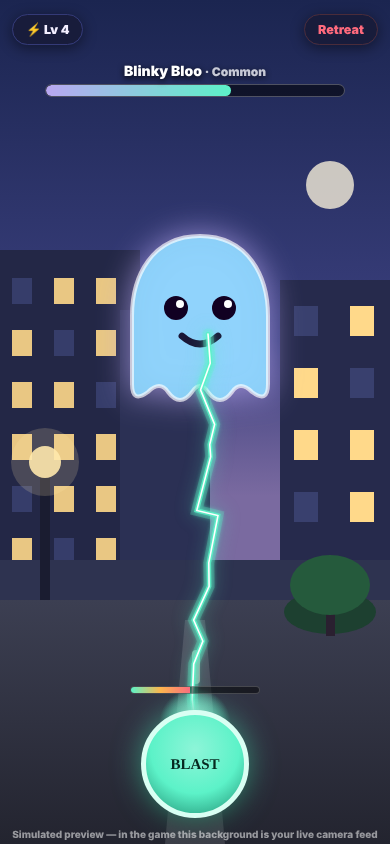
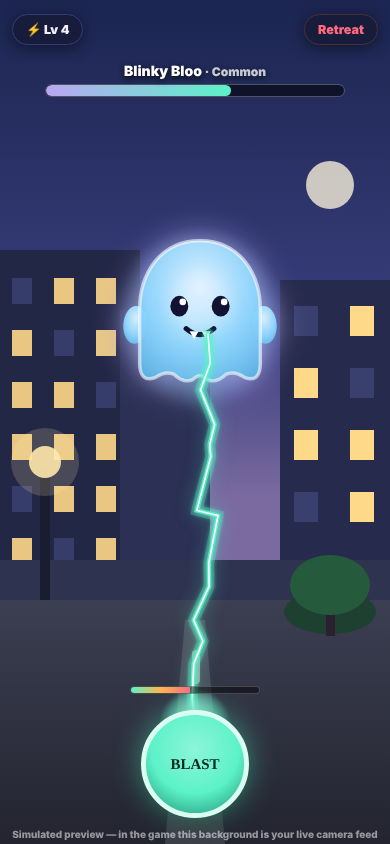
Redesign ghost cast: animated gradient art with floating arms, waving tails, blinking, brows, fangs, drips; refresh AR previews
Claude-Session: https://claude.ai/code/session_01BDYorCFhA6JyGBvLvMTcXZ

Changed region(s): [[0.3077, 0.2773, 0.7077, 0.4929]]

diff --git a/play/index.html b/play/index.html
@@ -266,39 +266,90 @@ const SPECIES = [
 const RAR_LABEL = {c:"Common",u:"Uncommon",r:"Rare",s:"Special",b:"Boss"};
 
 /* ---------- ghost art: original SVG blobs ---------- */
+let GUID=0;
 function ghostSVG(sp, px){
-  const s = px || sp.size;
-  const boss = sp.rar==="b", myr = sp.id==="myrtle";
-  const eyes = sp.id==="blinky"
-    ? `<circle cx="38" cy="44" r="6" fill="#102"/><circle cx="62" cy="44" r="6" fill="#102"/>
-       <rect x="30" y="36" width="16" height="4" rx="2" fill="${sp.body}"><animate attributeName="height" values="0;0;14;0;0" keyTimes="0;.42;.5;.58;1" dur="3s" repeatCount="indefinite"/></rect>`
-    : boss
-    ? `<circle cx="36" cy="42" r="8" fill="#0a2a20"/><circle cx="64" cy="42" r="8" fill="#0a2a20"/>
-       <circle cx="38.5" cy="39.5" r="2.6" fill="#fff"/><circle cx="66.5" cy="39.5" r="2.6" fill="#fff"/>`
-    : `<circle cx="38" cy="44" r="5.5" fill="#1a1636"/><circle cx="62" cy="44" r="5.5" fill="#1a1636"/>
-       <circle cx="40" cy="42" r="1.8" fill="#fff"/><circle cx="64" cy="42" r="1.8" fill="#fff"/>`;
-  const mouth = boss
-    ? `<path d="M34 60 Q50 74 66 60 Q58 66 50 65 Q42 66 34 60z" fill="#0a2a20"/>
-       <path d="M44 63 l5 8 5-8z" fill="#fff"/>`
-    : sp.id==="grumble"
-    ? `<path d="M40 62 Q50 55 60 62" stroke="#1a1636" stroke-width="3.4" fill="none" stroke-linecap="round"/>`
-    : `<path d="M41 58 Q50 66 59 58" stroke="#1a1636" stroke-width="3.4" fill="none" stroke-linecap="round"/>`;
-  const extras =
-    sp.id==="fog" ? `<circle cx="62" cy="44" r="10.5" fill="none" stroke="#f3efff" stroke-width="2.4"/><line x1="70" y1="51" x2="76" y2="62" stroke="#f3efff" stroke-width="2"/>` :
-    sp.id==="zappy" ? `<path d="M50 4 l-6 12 h8 l-7 13" stroke="#ffb64d" stroke-width="3.5" fill="none" stroke-linecap="round" stroke-linejoin="round"/>` :
-    sp.id==="shiver" ? `<path d="M28 30 Q50 16 72 30 L68 24 Q50 12 32 24z" fill="#8f7ddb"/>` :
-    myr ? `<path d="M26 32 Q50 14 74 32 L74 27 Q50 8 26 27z" fill="#d998b8"/>
-           <circle cx="78" cy="58" r="8" fill="#fff" stroke="#d998b8" stroke-width="2"/>
-           <path d="M85 56 q6 2 0 6" fill="none" stroke="#d998b8" stroke-width="2"/>
-           <ellipse cx="34" cy="52" rx="4.5" ry="3" fill="#ffffff55"/><ellipse cx="66" cy="52" rx="4.5" ry="3" fill="#ffffff55"/>` :
-    sp.id==="snacker" ? `<circle cx="68" cy="60" r="2" fill="#7a5b2e"/><circle cx="31" cy="55" r="1.8" fill="#7a5b2e"/><circle cx="60" cy="68" r="1.6" fill="#7a5b2e"/>` : "";
-  const crown = boss ? `<path d="M34 12 l5 9 11-11 11 11 5-9 -3 16 H37z" fill="#ffb64d" stroke="#d98f2b" stroke-width="2"/>` : "";
-  return `<svg viewBox="0 0 100 100" width="${s}" height="${s}" xmlns="http://www.w3.org/2000/svg">
-    <path d="M50 8 C26 8 16 28 16 48 V82 Q16 92 24 86 Q30 80 34 86 Q40 94 46 86 Q50 80 54 86 Q60 94 66 86 Q70 80 76 86 Q84 92 84 82 V48 C84 28 74 8 50 8z"
-      fill="${sp.body}" stroke="#ffffff66" stroke-width="2"/>
-    ${crown}${extras}${eyes}${mouth}
-  </svg>`;
+  const s = px || sp.size, id = sp.id, u = "gu"+(GUID++);
+  const C = sp.body, boss = id==="gloom";
+  const SH = {blinky:["#dcf3ff","#5fb5e8"],snacker:["#e4fdd9","#74cf63"],
+    grumble:["#dcdff5","#767ec2"],zappy:["#fff7da","#e2b84f"],
+    fog:["#f1ecfc","#9d93cf"],shiver:["#eae2fc","#8a76d8"],
+    myrtle:["#fde8f1","#df8fb5"],gloom:["#e2fff6","#3fc9a2"]};
+  const [lite,deep] = SH[id]||["#eeeeee","#999999"];
+  const bodyA="M50 6 C27 6 15 25 15 46 V77 Q15 90 24 84 Q30 79 35 85 Q41 92 46 85 Q50 80 54 85 Q59 92 65 85 Q70 79 76 84 Q85 90 85 77 V46 C85 25 73 6 50 6 Z";
+  const bodyB="M50 6 C27 6 15 25 15 46 V77 Q15 88 24 86 Q30 82 35 83 Q41 88 46 87 Q50 83 54 87 Q59 88 65 83 Q70 82 76 86 Q85 88 85 77 V46 C85 25 73 6 50 6 Z";
+  /* eyes */
+  const blink=(cx,rx,ry)=>`<ellipse cx="${cx}" cy="44" rx="${rx}" ry="${ry}" fill="#141233">
+      <animate attributeName="ry" values="${ry};${ry};.7;${ry};${ry}" keyTimes="0;.44;.5;.56;1" dur="3.4s" repeatCount="indefinite"/></ellipse>`;
+  let eyes = boss
+    ? blink(36,7.5,8.5)+blink(64,7.5,8.5)
+      +`<circle cx="39" cy="40.5" r="2.6" fill="#fff"/><circle cx="67" cy="40.5" r="2.6" fill="#fff"/>`
+    : blink(38,5.2,6)+blink(62,5.2,6)
+      +`<circle cx="40" cy="41.5" r="1.9" fill="#fff"/><circle cx="64" cy="41.5" r="1.9" fill="#fff"/>`;
+  /* scary accents: angled brows */
+  const brows = {grumble:`<path d="M30 33 L46 38" stroke="${deep}" stroke-width="3.2" stroke-linecap="round"/><path d="M70 33 L54 38" stroke="${deep}" stroke-width="3.2" stroke-linecap="round"/>`,
+    gloom:`<path d="M26 30 L45 36" stroke="#1d6e55" stroke-width="4" stroke-linecap="round"/><path d="M74 30 L55 36" stroke="#1d6e55" stroke-width="4" stroke-linecap="round"/>`,
+    shiver:`<path d="M31 35 Q38 32 45 35" stroke="${deep}" stroke-width="2" fill="none" stroke-linecap="round"/><path d="M55 35 Q62 32 69 35" stroke="${deep}" stroke-width="2" fill="none" stroke-linecap="round"/>`}[id]||"";
+  /* mouths */
+  const mouth = {
+    blinky:`<path d="M42 57 Q50 64 58 57" stroke="#141233" stroke-width="3" fill="none" stroke-linecap="round"/>
+      <path d="M44 58.5 l2.6 4.6 2.6-4.6z" fill="#fff"/><path d="M51 58.5 l2.6 4.6 2.6-4.6z" fill="#fff"/>`,
+    snacker:`<ellipse cx="50" cy="60" rx="6" ry="4" fill="#141233">
+        <animate attributeName="ry" values="2.5;4.5;2.5" dur=".8s" repeatCount="indefinite"/></ellipse>
+      <circle cx="68" cy="56" r="1.8" fill="#7a5b2e"/><circle cx="31" cy="53" r="1.6" fill="#7a5b2e"/><circle cx="60" cy="67" r="1.4" fill="#7a5b2e"/>`,
+    grumble:`<path d="M41 62 Q50 55 59 62" stroke="#141233" stroke-width="3.2" fill="none" stroke-linecap="round"/>`,
+    zappy:`<path d="M41 59 l4.5 3.5 4.5-3.5 4.5 3.5 4.5-3.5" stroke="#141233" stroke-width="2.6" fill="none" stroke-linecap="round" stroke-linejoin="round"/>`,
+    fog:`<path d="M43 59 Q50 64 57 59" stroke="#141233" stroke-width="2.6" fill="none" stroke-linecap="round"/>`,
+    shiver:`<path d="M44 59 Q50 63 56 59" stroke="#141233" stroke-width="2.4" fill="none" stroke-linecap="round"/>`,
+    myrtle:`<path d="M42 57 Q50 64 58 57" stroke="#9c3f68" stroke-width="2.8" fill="none" stroke-linecap="round"/>
+      <ellipse cx="33" cy="52" rx="4.5" ry="3" fill="#ffffff66"/><ellipse cx="67" cy="52" rx="4.5" ry="3" fill="#ffffff66"/>`,
+    gloom:`<path d="M32 56 Q50 74 68 56 Q59 63 50 62 Q41 63 32 56 Z" fill="#0a2a20"/>
+      <path d="M38 58.5 l3.5 6 3.5-6z" fill="#fff"/><path d="M47 60.5 l3 5.5 3-5.5z" fill="#fff"/><path d="M56 58.5 l3.5 6 3.5-6z" fill="#fff"/>`
+  }[id]||"";
+  /* species extras */
+  const extras = {
+    fog:`<circle cx="62" cy="44" r="11" fill="none" stroke="#f3efff" stroke-width="2.4"/><line x1="70" y1="52" x2="77" y2="63" stroke="#f3efff" stroke-width="2"/>`,
+    zappy:`<path d="M50 2 l-6 12 h8 l-7 14" stroke="#ffb64d" stroke-width="3.6" fill="none" stroke-linecap="round" stroke-linejoin="round">
+        <animate attributeName="opacity" values="1;.25;1;.7;1" dur=".9s" repeatCount="indefinite"/></path>`,
+    shiver:`<path d="M28 30 Q50 15 72 30 L68 23 Q50 11 32 23 Z" fill="#8f7ddb"/>`,
+    myrtle:`<path d="M26 32 Q50 13 74 32 L74 26 Q50 7 26 26 Z" fill="#d998b8"/>
+      <circle cx="38" cy="44" r="8.5" fill="none" stroke="#9c3f68" stroke-width="1.8"/><circle cx="62" cy="44" r="8.5" fill="none" stroke="#9c3f68" stroke-width="1.8"/><line x1="46.5" y1="44" x2="53.5" y2="44" stroke="#9c3f68" stroke-width="1.8"/>
+      <circle cx="80" cy="60" r="7.5" fill="#fff" stroke="#d998b8" stroke-width="2"/><path d="M87 58 q5 2 0 6" fill="none" stroke="#d998b8" stroke-width="2"/>
+      <path d="M79 50 q3 -5 0 -9" stroke="#ffffffaa" stroke-width="1.8" fill="none" stroke-linecap="round">
+        <animate attributeName="opacity" values=".8;.15;.8" dur="2s" repeatCount="indefinite"/></path>`,
+    gloom:`<path d="M33 12 l5.5 9 11.5-11 11.5 11 5.5-9 -3.5 16 H36.5 Z" fill="#ffb64d" stroke="#d98f2b" stroke-width="2"/>`
+  }[id]||"";
+  /* ectoplasm drips for the gooier ghosts */
+  const drip = (id==="snacker"||boss)
+    ? `<ellipse cx="33" cy="86" rx="2.4" ry="3.4" fill="${C}" opacity="0">
+        <animate attributeName="cy" values="84;97" dur="1.7s" repeatCount="indefinite"/>
+        <animate attributeName="opacity" values=".85;0" dur="1.7s" repeatCount="indefinite"/></ellipse>
+       <ellipse cx="66" cy="86" rx="2" ry="3" fill="${C}" opacity="0">
+        <animate attributeName="cy" values="84;96" dur="2.1s" begin=".6s" repeatCount="indefinite"/>
+        <animate attributeName="opacity" values=".8;0" dur="2.1s" begin=".6s" repeatCount="indefinite"/></ellipse>` : "";
+  return `<svg viewBox="-8 -4 116 112" width="${s}" height="${s}" xmlns="http://www.w3.org/2000/svg">
+  <defs>
+    <radialGradient id="${u}g" cx="50%" cy="32%" r="78%">
+      <stop offset="0%" stop-color="${lite}"/><stop offset="58%" stop-color="${C}"/><stop offset="100%" stop-color="${deep}"/>
+    </radialGradient>
+    <filter id="${u}b" x="-40%" y="-40%" width="180%" height="180%"><feGaussianBlur stdDeviation="5"/></filter>
+  </defs>
+  <ellipse cx="50" cy="52" rx="43" ry="47" fill="${C}" filter="url(#${u}b)" opacity=".22">
+    <animate attributeName="opacity" values=".16;.32;.16" dur="3s" repeatCount="indefinite"/>
+  </ellipse>
+  <ellipse cx="13" cy="55" rx="7" ry="11" fill="url(#${u}g)" opacity=".95">
+    <animateTransform attributeName="transform" type="rotate" values="-12 15 48;12 15 48;-12 15 48" dur="2.4s" repeatCount="indefinite"/>
+  </ellipse>
+  <ellipse cx="87" cy="55" rx="7" ry="11" fill="url(#${u}g)" opacity=".95">
+    <animateTransform attributeName="transform" type="rotate" values="12 85 48;-12 85 48;12 85 48" dur="2.4s" repeatCount="indefinite"/>
+  </ellipse>
+  <path d="${bodyA}" fill="url(#${u}g)" fill-opacity=".94" stroke="#ffffff99" stroke-width="2">
+    <animate attributeName="d" values="${bodyA};${bodyB};${bodyA}" dur="2.2s" repeatCount="indefinite"/>
+  </path>
+  <ellipse cx="50" cy="42" rx="17" ry="18" fill="#ffffff" opacity=".28" filter="url(#${u}b)"/>
+  ${extras}${brows}${eyes}${mouth}${drip}
+</svg>`;
 }
+
 
 /* ---------- persistent player state ---------- */
 const DB_KEY = "gbgo_v1";

diff --git a/index.html b/index.html
@@ -165,22 +165,90 @@ const SPECIES=[
  {id:"gloom",name:"Gloombert the Grand",rar:"b",body:"#7ee8c9",desc:"Huge, round, one snaggletooth, surprisingly polite. Solo hunters bounce off him; crews with stacked lightning streams bring him down. Worth 400 XP."}
 ];
 const RAR={c:"Common",u:"Uncommon",r:"Rare",s:"Special",b:"Boss"};
-function ghostSVG(sp,s){
-  const boss=sp.rar==="b",myr=sp.id==="myrtle";
-  const eyes=sp.id==="blinky"?`<circle cx="38" cy="44" r="6" fill="#102"/><circle cx="62" cy="44" r="6" fill="#102"/>`
-    :boss?`<circle cx="36" cy="42" r="8" fill="#0a2a20"/><circle cx="64" cy="42" r="8" fill="#0a2a20"/><circle cx="38.5" cy="39.5" r="2.6" fill="#fff"/><circle cx="66.5" cy="39.5" r="2.6" fill="#fff"/>`
-    :`<circle cx="38" cy="44" r="5.5" fill="#1a1636"/><circle cx="62" cy="44" r="5.5" fill="#1a1636"/><circle cx="40" cy="42" r="1.8" fill="#fff"/><circle cx="64" cy="42" r="1.8" fill="#fff"/>`;
-  const mouth=boss?`<path d="M34 60 Q50 74 66 60 Q58 66 50 65 Q42 66 34 60z" fill="#0a2a20"/><path d="M44 63 l5 8 5-8z" fill="#fff"/>`
-    :sp.id==="grumble"?`<path d="M40 62 Q50 55 60 62" stroke="#1a1636" stroke-width="3.4" fill="none" stroke-linecap="round"/>`
-    :`<path d="M41 58 Q50 66 59 58" stroke="#1a1636" stroke-width="3.4" fill="none" stroke-linecap="round"/>`;
-  const extras=sp.id==="fog"?`<circle cx="62" cy="44" r="10.5" fill="none" stroke="#f3efff" stroke-width="2.4"/><line x1="70" y1="51" x2="76" y2="62" stroke="#f3efff" stroke-width="2"/>`
-    :sp.id==="zappy"?`<path d="M50 4 l-6 12 h8 l-7 13" stroke="#ffb64d" stroke-width="3.5" fill="none" stroke-linecap="round" stroke-linejoin="round"/>`
-    :sp.id==="shiver"?`<path d="M28 30 Q50 16 72 30 L68 24 Q50 12 32 24z" fill="#8f7ddb"/>`
-    :myr?`<path d="M26 32 Q50 14 74 32 L74 27 Q50 8 26 27z" fill="#d998b8"/><circle cx="78" cy="58" r="8" fill="#fff" stroke="#d998b8" stroke-width="2"/><path d="M85 56 q6 2 0 6" fill="none" stroke="#d998b8" stroke-width="2"/>`
-    :sp.id==="snacker"?`<circle cx="68" cy="60" r="2" fill="#7a5b2e"/><circle cx="31" cy="55" r="1.8" fill="#7a5b2e"/>`:"";
-  const crown=boss?`<path d="M34 12 l5 9 11-11 11 11 5-9 -3 16 H37z" fill="#ffb64d" stroke="#d98f2b" stroke-width="2"/>`:"";
-  return `<svg viewBox="0 0 100 100" width="${s}" height="${s}"><path d="M50 8 C26 8 16 28 16 48 V82 Q16 92 24 86 Q30 80 34 86 Q40 94 46 86 Q50 80 54 86 Q60 94 66 86 Q70 80 76 86 Q84 92 84 82 V48 C84 28 74 8 50 8z" fill="${sp.body}" stroke="#ffffff66" stroke-width="2"/>${crown}${extras}${eyes}${mouth}</svg>`;
+let GUID=0;
+function ghostSVG(sp, px){
+  const s = px || sp.size, id = sp.id, u = "gu"+(GUID++);
+  const C = sp.body, boss = id==="gloom";
+  const SH = {blinky:["#dcf3ff","#5fb5e8"],snacker:["#e4fdd9","#74cf63"],
+    grumble:["#dcdff5","#767ec2"],zappy:["#fff7da","#e2b84f"],
+    fog:["#f1ecfc","#9d93cf"],shiver:["#eae2fc","#8a76d8"],
+    myrtle:["#fde8f1","#df8fb5"],gloom:["#e2fff6","#3fc9a2"]};
+  const [lite,deep] = SH[id]||["#eeeeee","#999999"];
+  const bodyA="M50 6 C27 6 15 25 15 46 V77 Q15 90 24 84 Q30 79 35 85 Q41 92 46 85 Q50 80 54 85 Q59 92 65 85 Q70 79 76 84 Q85 90 85 77 V46 C85 25 73 6 50 6 Z";
+  const bodyB="M50 6 C27 6 15 25 15 46 V77 Q15 88 24 86 Q30 82 35 83 Q41 88 46 87 Q50 83 54 87 Q59 88 65 83 Q70 82 76 86 Q85 88 85 77 V46 C85 25 73 6 50 6 Z";
+  /* eyes */
+  const blink=(cx,rx,ry)=>`<ellipse cx="${cx}" cy="44" rx="${rx}" ry="${ry}" fill="#141233">
+      <animate attributeName="ry" values="${ry};${ry};.7;${ry};${ry}" keyTimes="0;.44;.5;.56;1" dur="3.4s" repeatCount="indefinite"/></ellipse>`;
+  let eyes = boss
+    ? blink(36,7.5,8.5)+blink(64,7.5,8.5)
+      +`<circle cx="39" cy="40.5" r="2.6" fill="#fff"/><circle cx="67" cy="40.5" r="2.6" fill="#fff"/>`
+    : blink(38,5.2,6)+blink(62,5.2,6)
+      +`<circle cx="40" cy="41.5" r="1.9" fill="#fff"/><circle cx="64" cy="41.5" r="1.9" fill="#fff"/>`;
+  /* scary accents: angled brows */
+  const brows = {grumble:`<path d="M30 33 L46 38" stroke="${deep}" stroke-width="3.2" stroke-linecap="round"/><path d="M70 33 L54 38" stroke="${deep}" stroke-width="3.2" stroke-linecap="round"/>`,
+    gloom:`<path d="M26 30 L45 36" stroke="#1d6e55" stroke-width="4" stroke-linecap="round"/><path d="M74 30 L55 36" stroke="#1d6e55" stroke-width="4" stroke-linecap="round"/>`,
+    shiver:`<path d="M31 35 Q38 32 45 35" stroke="${deep}" stroke-width="2" fill="none" stroke-linecap="round"/><path d="M55 35 Q62 32 69 35" stroke="${deep}" stroke-width="2" fill="none" stroke-linecap="round"/>`}[id]||"";
+  /* mouths */
+  const mouth = {
+    blinky:`<path d="M42 57 Q50 64 58 57" stroke="#141233" stroke-width="3" fill="none" stroke-linecap="round"/>
+      <path d="M44 58.5 l2.6 4.6 2.6-4.6z" fill="#fff"/><path d="M51 58.5 l2.6 4.6 2.6-4.6z" fill="#fff"/>`,
+    snacker:`<ellipse cx="50" cy="60" rx="6" ry="4" fill="#141233">
+        <animate attributeName="ry" values="2.5;4.5;2.5" dur=".8s" repeatCount="indefinite"/></ellipse>
+      <circle cx="68" cy="56" r="1.8" fill="#7a5b2e"/><circle cx="31" cy="53" r="1.6" fill="#7a5b2e"/><circle cx="60" cy="67" r="1.4" fill="#7a5b2e"/>`,
+    grumble:`<path d="M41 62 Q50 55 59 62" stroke="#141233" stroke-width="3.2" fill="none" stroke-linecap="round"/>`,
+    zappy:`<path d="M41 59 l4.5 3.5 4.5-3.5 4.5 3.5 4.5-3.5" stroke="#141233" stroke-width="2.6" fill="none" stroke-linecap="round" stroke-linejoin="round"/>`,
+    fog:`<path d="M43 59 Q50 64 57 59" stroke="#141233" stroke-width="2.6" fill="none" stroke-linecap="round"/>`,
+    shiver:`<path d="M44 59 Q50 63 56 59" stroke="#141233" stroke-width="2.4" fill="none" stroke-linecap="round"/>`,
+    myrtle:`<path d="M42 57 Q50 64 58 57" stroke="#9c3f68" stroke-width="2.8" fill="none" stroke-linecap="round"/>
+      <ellipse cx="33" cy="52" rx="4.5" ry="3" fill="#ffffff66"/><ellipse cx="67" cy="52" rx="4.5" ry="3" fill="#ffffff66"/>`,
+    gloom:`<path d="M32 56 Q50 74 68 56 Q59 63 50 62 Q41 63 32 56 Z" fill="#0a2a20"/>
+      <path d="M38 58.5 l3.5 6 3.5-6z" fill="#fff"/><path d="M47 60.5 l3 5.5 3-5.5z" fill="#fff"/><path d="M56 58.5 l3.5 6 3.5-6z" fill="#fff"/>`
+  }[id]||"";
+  /* species extras */
+  const extras = {
+    fog:`<circle cx="62" cy="44" r="11" fill="none" stroke="#f3efff" stroke-width="2.4"/><line x1="70" y1="52" x2="77" y2="63" stroke="#f3efff" stroke-width="2"/>`,
+    zappy:`<path d="M50 2 l-6 12 h8 l-7 14" stroke="#ffb64d" stroke-width="3.6" fill="none" stroke-linecap="round" stroke-linejoin="round">
+        <animate attributeName="opacity" values="1;.25;1;.7;1" dur=".9s" repeatCount="indefinite"/></path>`,
+    shiver:`<path d="M28 30 Q50 15 72 30 L68 23 Q50 11 32 23 Z" fill="#8f7ddb"/>`,
+    myrtle:`<path d="M26 32 Q50 13 74 32 L74 26 Q50 7 26 26 Z" fill="#d998b8"/>
+      <circle cx="38" cy="44" r="8.5" fill="none" stroke="#9c3f68" stroke-width="1.8"/><circle cx="62" cy="44" r="8.5" fill="none" stroke="#9c3f68" stroke-width="1.8"/><line x1="46.5" y1="44" x2="53.5" y2="44" stroke="#9c3f68" stroke-width="1.8"/>
+      <circle cx="80" cy="60" r="7.5" fill="#fff" stroke="#d998b8" stroke-width="2"/><path d="M87 58 q5 2 0 6" fill="none" stroke="#d998b8" stroke-width="2"/>
+      <path d="M79 50 q3 -5 0 -9" stroke="#ffffffaa" stroke-width="1.8" fill="none" stroke-linecap="round">
+        <animate attributeName="opacity" values=".8;.15;.8" dur="2s" repeatCount="indefinite"/></path>`,
+    gloom:`<path d="M33 12 l5.5 9 11.5-11 11.5 11 5.5-9 -3.5 16 H36.5 Z" fill="#ffb64d" stroke="#d98f2b" stroke-width="2"/>`
+  }[id]||"";
+  /* ectoplasm drips for the gooier ghosts */
+  const drip = (id==="snacker"||boss)
+    ? `<ellipse cx="33" cy="86" rx="2.4" ry="3.4" fill="${C}" opacity="0">
+        <animate attributeName="cy" values="84;97" dur="1.7s" repeatCount="indefinite"/>
+        <animate attributeName="opacity" values=".85;0" dur="1.7s" repeatCount="indefinite"/></ellipse>
+       <ellipse cx="66" cy="86" rx="2" ry="3" fill="${C}" opacity="0">
+        <animate attributeName="cy" values="84;96" dur="2.1s" begin=".6s" repeatCount="indefinite"/>
+        <animate attributeName="opacity" values=".8;0" dur="2.1s" begin=".6s" repeatCount="indefinite"/></ellipse>` : "";
+  return `<svg viewBox="-8 -4 116 112" width="${s}" height="${s}" xmlns="http://www.w3.org/2000/svg">
+  <defs>
+    <radialGradient id="${u}g" cx="50%" cy="32%" r="78%">
+      <stop offset="0%" stop-color="${lite}"/><stop offset="58%" stop-color="${C}"/><stop offset="100%" stop-color="${deep}"/>
+    </radialGradient>
+    <filter id="${u}b" x="-40%" y="-40%" width="180%" height="180%"><feGaussianBlur stdDeviation="5"/></filter>
+  </defs>
+  <ellipse cx="50" cy="52" rx="43" ry="47" fill="${C}" filter="url(#${u}b)" opacity=".22">
+    <animate attributeName="opacity" values=".16;.32;.16" dur="3s" repeatCount="indefinite"/>
+  </ellipse>
+  <ellipse cx="13" cy="55" rx="7" ry="11" fill="url(#${u}g)" opacity=".95">
+    <animateTransform attributeName="transform" type="rotate" values="-12 15 48;12 15 48;-12 15 48" dur="2.4s" repeatCount="indefinite"/>
+  </ellipse>
+  <ellipse cx="87" cy="55" rx="7" ry="11" fill="url(#${u}g)" opacity=".95">
+    <animateTransform attributeName="transform" type="rotate" values="12 85 48;-12 85 48;12 85 48" dur="2.4s" repeatCount="indefinite"/>
+  </ellipse>
+  <path d="${bodyA}" fill="url(#${u}g)" fill-opacity=".94" stroke="#ffffff99" stroke-width="2">
+    <animate attributeName="d" values="${bodyA};${bodyB};${bodyA}" dur="2.2s" repeatCount="indefinite"/>
+  </path>
+  <ellipse cx="50" cy="42" rx="17" ry="18" fill="#ffffff" opacity=".28" filter="url(#${u}b)"/>
+  ${extras}${brows}${eyes}${mouth}${drip}
+</svg>`;
 }
+
 document.getElementById("heroGhost").innerHTML=ghostSVG(SPECIES[7],150);
 document.getElementById("roster").innerHTML=SPECIES.map(sp=>
   sp.rar==="b"
